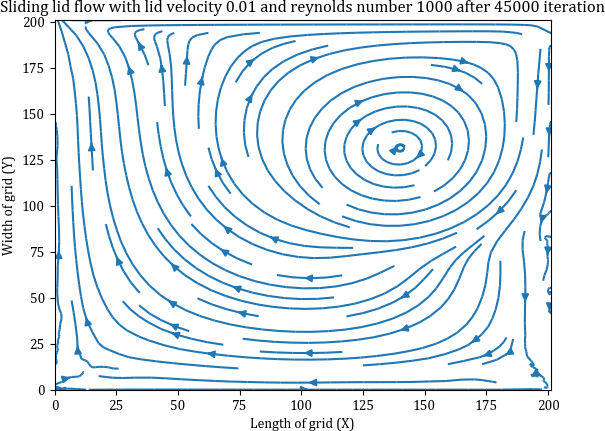
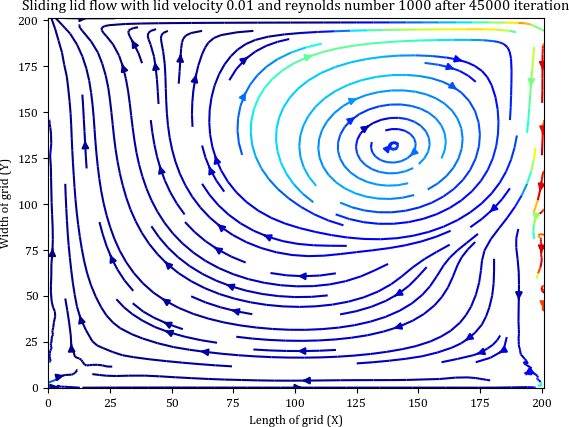
Colored sliding lid

Changed region(s): [[0.0, 0.0, 1.0, 1.0]]

diff --git a/simulattions/sliding_lid.py b/simulattions/sliding_lid.py
@@ -18,12 +18,13 @@ def sliding_lid_simulation(Nx: int, Ny: int, re: float, output_dir: str, save_ev
     def visualize_sliding_lid(i):
         
         """Visual function for animate [Refer to animate]"""
+        speed = np.sqrt(velocity[:, :, 0].T**2 + velocity[:, :, 1].T**2)
         x, y = np.meshgrid(np.arange(Nx+2), np.arange(Ny+2))
         axes[1].cla()
         axes[1].set_ylabel("Width Y")
         axes[1].set_xlabel("Length X")
         axes[1].set_title('Sliding lid plot for lid velocity {} and reynold number {}'.format(lid_vel, re))
-        axes[1].streamplot(x, y, sliding_lid_velocity_list[i][:, :, 1], sliding_lid_velocity_list[i][:, :, 0], color = 'r')         
+        axes[1].streamplot(x, y, sliding_lid_velocity_list[i][:, :, 1], sliding_lid_velocity_list[i][:, :, 0],color=speed, cmap = plt.cm.jet)         
   
 
     def animate(velocity):
@@ -66,7 +67,8 @@ def sliding_lid_simulation(Nx: int, Ny: int, re: float, output_dir: str, save_ev
             axes[0].set_ylabel("Width of grid (Y)")
             axes[0].set_xlabel("Length of grid (X)")
             x, y = np.meshgrid(np.arange(Nx+2), np.arange(Ny+2))
-            axes[0].streamplot(x, y, velocity[:, :, 1], velocity[:, :, 0])
+            speed = np.sqrt(velocity[:, :, 0].T**2 + velocity[:, :, 1].T**2)
+            axes[0].streamplot(x, y, velocity[:, :, 1], velocity[:, :, 0], color=speed, cmap = plt.cm.jet)
             save_path = os.path.join(common_path, f'sliding_{step}.png')
             axes[0].set_title('Sliding lid flow with lid velocity {} and reynolds number {} after {} iteration'.format(lid_vel,re, step))
             figs[0].savefig(save_path, bbox_inches='tight', pad_inches=0)            

diff --git a/lbm_common/boundary.py b/lbm_common/boundary.py
@@ -6,8 +6,6 @@ def couette_bounce_back(f,lid_vel,velocity):
 
     """Bounce back and lid velocity exerted here"""
     rho_wall = (2 * (f[-1, :, 6] + f[-1, :, 2] + f[-1, :, 5]) + f[-1, :, 3] + f[-1, :, 0] + f[-1, :, 1])/(1+velocity[-1,:,1])
-    max_size_x = f.shape[1]-1  # x
-    max_size_y = f.shape[0]-1  # y    
     velocity[-1,:,1] = lid_vel
     # for bottom y = 0
     f[1, :, 2] = f[0, :, 4]
@@ -18,12 +16,12 @@ def couette_bounce_back(f,lid_vel,velocity):
     f[0, :, 8] = 0
     
     # for top y = max_size_y
-    f[max_size_y - 1, :, 4] = f[max_size_y, :, 2] 
-    f[max_size_y - 1, :, 7] = f[max_size_y, :, 5] - 1/2 *  rho_wall *  velocity[-1,:,1] 
-    f[max_size_y - 1, :, 8] = f[max_size_y, :, 6] + 1/2 *  rho_wall *  velocity[-1,:,1]        
-    f[max_size_y, :, 2] = 0
-    f[max_size_y, :, 5] = 0
-    f[max_size_y, :, 6] = 0
+    f[-2, :, 4] = f[-1, :, 2] 
+    f[-2, :, 7] = f[-1, :, 5] - 1/2 *  rho_wall *  velocity[-1,:,1] 
+    f[-2, :, 8] = f[-1, :, 6] + 1/2 *  rho_wall *  velocity[-1,:,1]        
+    f[-1, :, 2] = 0
+    f[-1, :, 5] = 0
+    f[-1, :, 6] = 0
 
     return f
 

diff --git a/simulattions/couette_flow.py b/simulattions/couette_flow.py
@@ -27,9 +27,9 @@ def couette_flow_simulation(Nx: int, Ny: int, omega: float, output_dir: str, sav
             axes[1].set_xlabel("Velocity in X direction")
             axes[1].set_title('Couette Flow with lid velocity {}'.format(lid_vel))
             # setup for gif      
-            axes[1].plot(x, y_min, color='k')
-            axes[1].plot(x, y_max, color='r')
-            axes[1].legend(['Analytical Flow','Simulated Flow','Rigid wall','Moving wall'])
+            # axes[1].plot(x, y_min, color='k')
+            # axes[1].plot(x, y_max, color='r')
+            # axes[1].legend(['Analytical Flow','Simulated Flow','Rigid wall','Moving wall'])
         else:
             j = j+1
     

diff --git a/init.py b/init.py
@@ -56,4 +56,4 @@ def experiment_type(type):
 """Define the experiemnt  category"""
 if __name__ == "__main__":
     # 'shear_wave', 'couette_flow', 'poiseuille_flow', 'sliding_lid'
-    experiment_type("poiseuille_flow")
+    experiment_type("sliding_lid")
